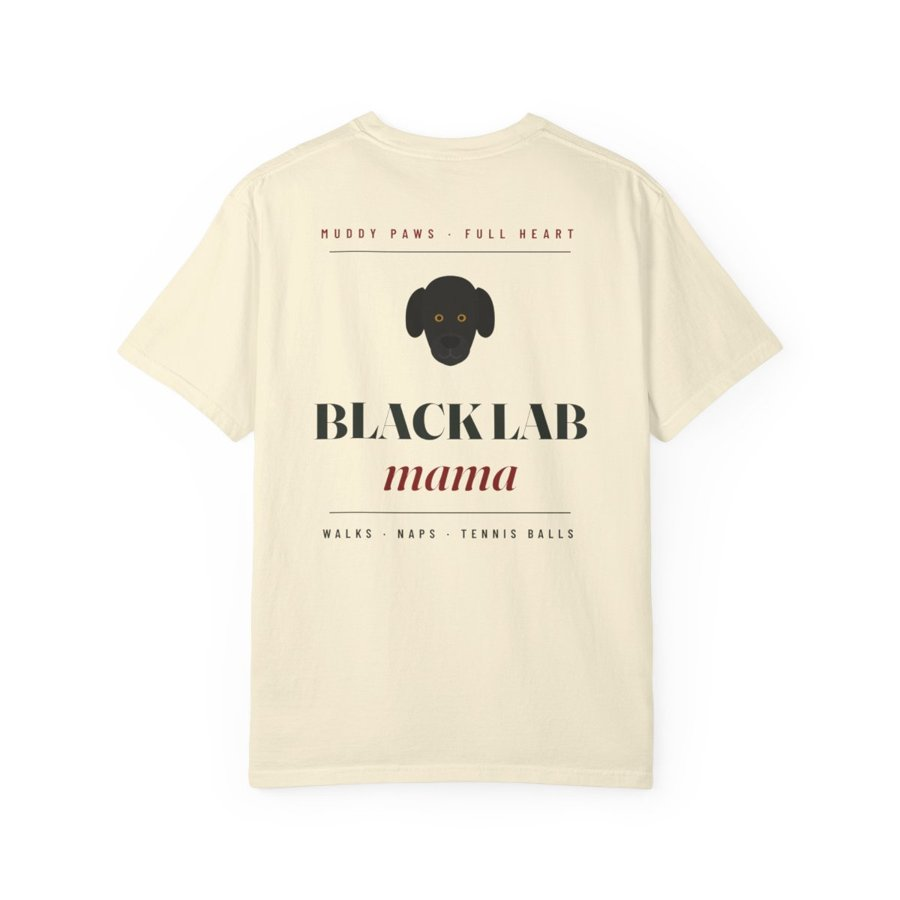
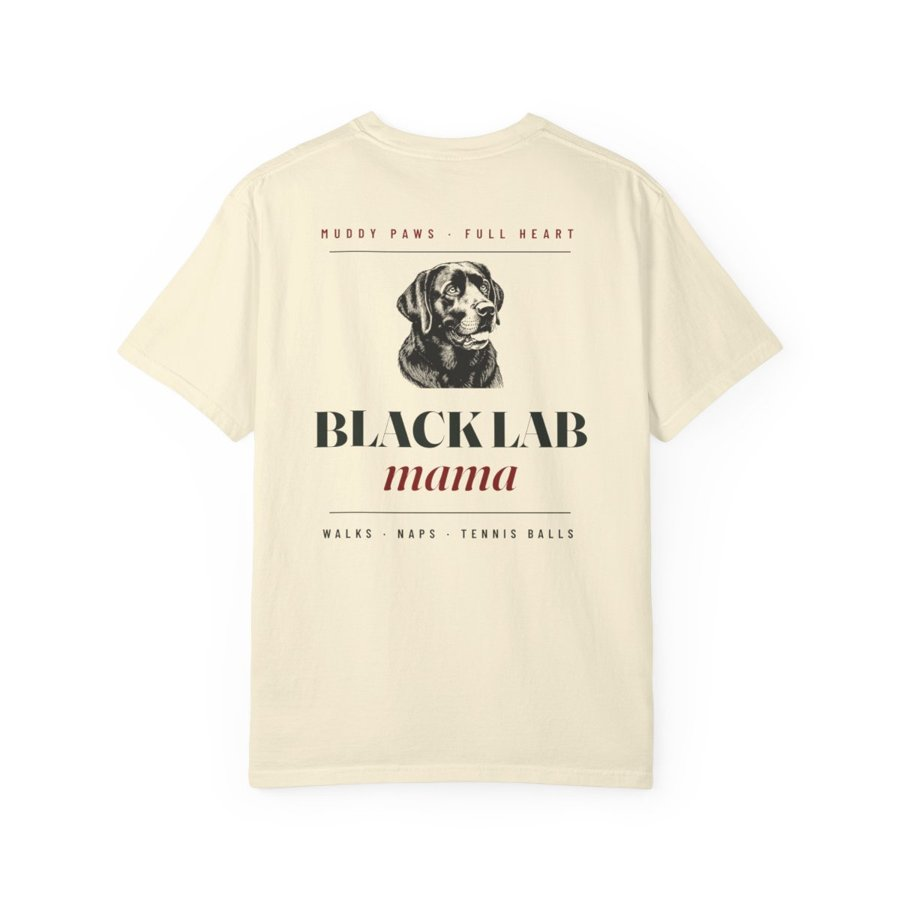
Black lab master: engraving-style art replaces SVG dog; Black Lab Mama draft updated with real mockups
Claude-Session: https://claude.ai/code/session_012r2w2rnZ41aNQk7ooqxwNx

Changed region(s): [[0.3422, 0.28, 0.6533, 0.4978]]

diff --git a/design/apparel-kit/retail.html b/design/apparel-kit/retail.html
@@ -2,6 +2,7 @@
 <link href="https://fonts.googleapis.com/css2?family=Fraunces:ital,opsz,wght@0,9..144,600;0,9..144,800;0,9..144,900;1,9..144,500;1,9..144,600;1,9..144,700&family=Barlow+Condensed:wght@600;700&display=swap" rel="stylesheet">
 <style>body{margin:0;background:transparent}.wrap{padding:30px}</style>
 </head><body>
+<!-- assets/black_lab_engraving.png = master black lab (AI-generated engraving via Canva, prepped with lab_prep.py). It is a print asset: keep it in the scratchpad copy of this folder, never commit it. -->
 <!-- Retail v3: boutique "small front + statement back" pairs, built for Comfort Colors 1717 (Ivory, Bay, Blossom, Butter). Ink: cocoa #4A2E1E + one accent. -->
 <svg width="0" height="0" style="position:absolute"><defs>
  <g id="mug">
@@ -44,8 +45,8 @@
 
 <!-- B1 Black Lab Mama: left-chest front -->
 <div class="wrap" id="r_lab_front"><svg width="1800" height="1300" viewBox="0 0 600 433">
- <use href="#lab" transform="translate(240 0) scale(0.6)"/>
- <text x="300" y="250" text-anchor="middle" font-family="Fraunces" font-style="italic" font-weight="600" font-size="100" fill="#1E2A22">Lab Mama</text>
+ <image href="assets/black_lab_engraving.png" x="245" y="0" width="110" height="150" preserveAspectRatio="xMidYMid meet"/>
+ <text x="300" y="258" text-anchor="middle" font-family="Fraunces" font-style="italic" font-weight="600" font-size="100" fill="#1E2A22">Lab Mama</text>
  <text x="300" y="330" text-anchor="middle" font-family="Barlow Condensed" font-weight="700" font-size="40" letter-spacing="14" fill="#8D1B1B">BLACK LAB CLUB</text>
 </svg></div>
 
@@ -53,8 +54,8 @@
 <div class="wrap" id="r_lab_back"><svg width="3000" height="3300" viewBox="0 0 1000 1100">
  <text x="500" y="90" text-anchor="middle" font-family="Barlow Condensed" font-weight="700" font-size="42" letter-spacing="18" fill="#8D1B1B">MUDDY PAWS · FULL HEART</text>
  <line x1="120" y1="132" x2="880" y2="132" stroke="#1E2A22" stroke-width="4"/>
- <use href="#lab" transform="translate(320 170) scale(1.8)"/>
- <text x="500" y="720" text-anchor="middle" font-family="Fraunces" font-weight="900" font-size="160" fill="#1E2A22" letter-spacing="-2">BLACK LAB</text>
+ <image href="assets/black_lab_engraving.png" x="305" y="160" width="390" height="400" preserveAspectRatio="xMidYMid meet"/>
+ <text x="500" y="745" text-anchor="middle" font-family="Fraunces" font-weight="900" font-size="160" fill="#1E2A22" letter-spacing="-2">BLACK LAB</text>
  <text x="500" y="880" text-anchor="middle" font-family="Fraunces" font-style="italic" font-weight="600" font-size="170" fill="#8D1B1B">mama</text>
  <line x1="120" y1="950" x2="880" y2="950" stroke="#1E2A22" stroke-width="4"/>
  <text x="500" y="1030" text-anchor="middle" font-family="Barlow Condensed" font-weight="700" font-size="40" letter-spacing="14" fill="#1E2A22">WALKS · NAPS · TENNIS BALLS</text>

diff --git a/docs/design-system.md b/docs/design-system.md
@@ -64,7 +64,11 @@ Spacing:
 
 - One illustration per design. It should be **flat or monoline, with a consistent stroke weight** (10–12 px at the 1000-unit artboard), rounded caps and joins.
 - Build from deliberate shapes, not emoji or clip art. It must read at 300 px wide.
-- **Every dog is a black lab** (owner rule): broad head, drop ears, amber eyes, black coat with dark-grey structure lines, and often a cranberry collar with a gold tag. The master is `#blackLab` in `design/apparel-kit/samples.html`; reuse it.
+- **Every dog is a black lab** (owner rule). **Use the master black lab engraving** (owner, Nov 22: the hand-drawn SVG labs looked bad):
+  - It's a detailed vintage-engraving black lab portrait, made with Canva's AI image generator, prepped to one ink with a transparent background (`lab_prep.py` logic: invert, then threshold to alpha).
+  - It's stored in Printify's upload library as **`6b0248bbf854dc9a01932af0`** (MASTER_black_lab_engraving.png); download its `preview_url` to reuse it. The Canva source is media `MAHbmQInsr4`, available until Nov 30.
+  - Never commit it, because it's a print asset. Never draw a dog from SVG shapes again.
+- **Realistic subjects (animals, objects, scenes): use engraving-style art from Canva's generator, not hand-drawn SVG.** Prompt pattern: "Vintage engraving-style illustration of <subject>, single-color black ink line art with fine cross-hatching, plain white background, no text, t-shirt print design". Export it at 3000 px through a Canva page, prep it to one ink, and pair it with our typography. The AI disclosure in listings covers it. Simple icons (mug, star, hat) can stay as SVG.
 - Santa hat: cranberry curved cone, cream band, cream pompom, cranberry outline (master in the Big Brother seal).
 - No characters, brands, team marks, logos, real places or famous quotes.
 

diff --git a/CLAUDE.md b/CLAUDE.md
@@ -44,7 +44,7 @@ Claude reads this file at the start of every session in this repo. Keep it curre
 - **Keep at least a 20% profit margin on every product.** Profit = price − Printify cost − Etsy fees (about 10% + $0.20). So the price must be at least (cost + $0.20) ÷ 0.70, rounded up to the next .99. Check this whenever costs change (back prints, new blueprints, sizes). Never price below it.
 - **Design standard: `docs/design-system.md` (v3, Nov 22; §0 Retail standard).** The owner rated v2 a 4.5/10, so v3 aligns to what retail buyers pay for: Comfort Colors 1717 garment-dyed tees ($28.99 at the 20% floor), a small left-chest front plus a statement back, and boutique serif typography. Reference drafts: Hot Cocoa Social Club 6b0247abd1488b77c806fcc2, Black Lab Mama 6b0247b031af62c93600c220.
 - Earlier note: The owner judged the old designs amateur. Every new design or redesign uses the system (Fraunces, Barlow Condensed and Yellowtail; 2 colours plus gold; seal, arc, club-badge or certificate layouts; monoline art) and passes the 6-line rubric before it goes on an HQ card. Kit: `design/apparel-kit/`.
-- **Every dog in our designs is a black lab. Always.** Draw a black lab (black coat, drop ears, broad head, amber eyes); never another breed or a generic cartoon dog.
+- **Every dog in our designs is a black lab. Always.** Use the master black lab engraving: Printify upload `6b0248bbf854dc9a01932af0` (owner said the hand-drawn SVG lab looked bad, Nov 22). Never another breed, a cartoon dog or a hand-drawn SVG dog.
 
 ## Pricing (recommended Nov 7, 2026; shirt and print rows updated by Penny Nov 11 to match live Printify prices)
 

diff --git a/docs/conversation-log.md b/docs/conversation-log.md
@@ -724,6 +724,11 @@ A dated record of each working session with Claude: what was asked, what was dec
 - Built the reference pair in `design/apparel-kit/retail.html` and created real Printify drafts on Comfort Colors 1717 (bp 706 / pp 29), each with a left-chest front and a statement back: Hot Cocoa Social Club (6b0247abd1488b77c806fcc2) and Black Lab Mama (6b0247b031af62c93600c220). Cost $19.73, priced $28.99 / $30.99 / $33.99 at the 20% floor. Created with the back print from the start, so Printify includes back and size-chart photos. Mockups in `design/apparel-kit/retail-preview/`.
 - HQ card `ap-bob-retail-nov22` replaces the v2 rollout question.
 
+## 2026-11-22 (owner: "that dog still looks like crap")
+
+- Replaced the hand-drawn SVG lab with a vintage-engraving black lab from Canva's image generator, exported at 3000 px, prepped to one ink with transparency, and stored as Printify upload `6b0248bbf854dc9a01932af0` (master). Black Lab Mama draft 6b0247b031af62c93600c220 now uses it on the front and back; real mockups are in `design/apparel-kit/retail-preview/black-lab-mama_*`.
+- Design system rule: realistic subjects use engraving-style generated art plus our typography; never hand-drawn SVG dogs again.
+
 ## Workspace checks
 
 - 2026-11-08T20:11:19Z workspace push test OK
